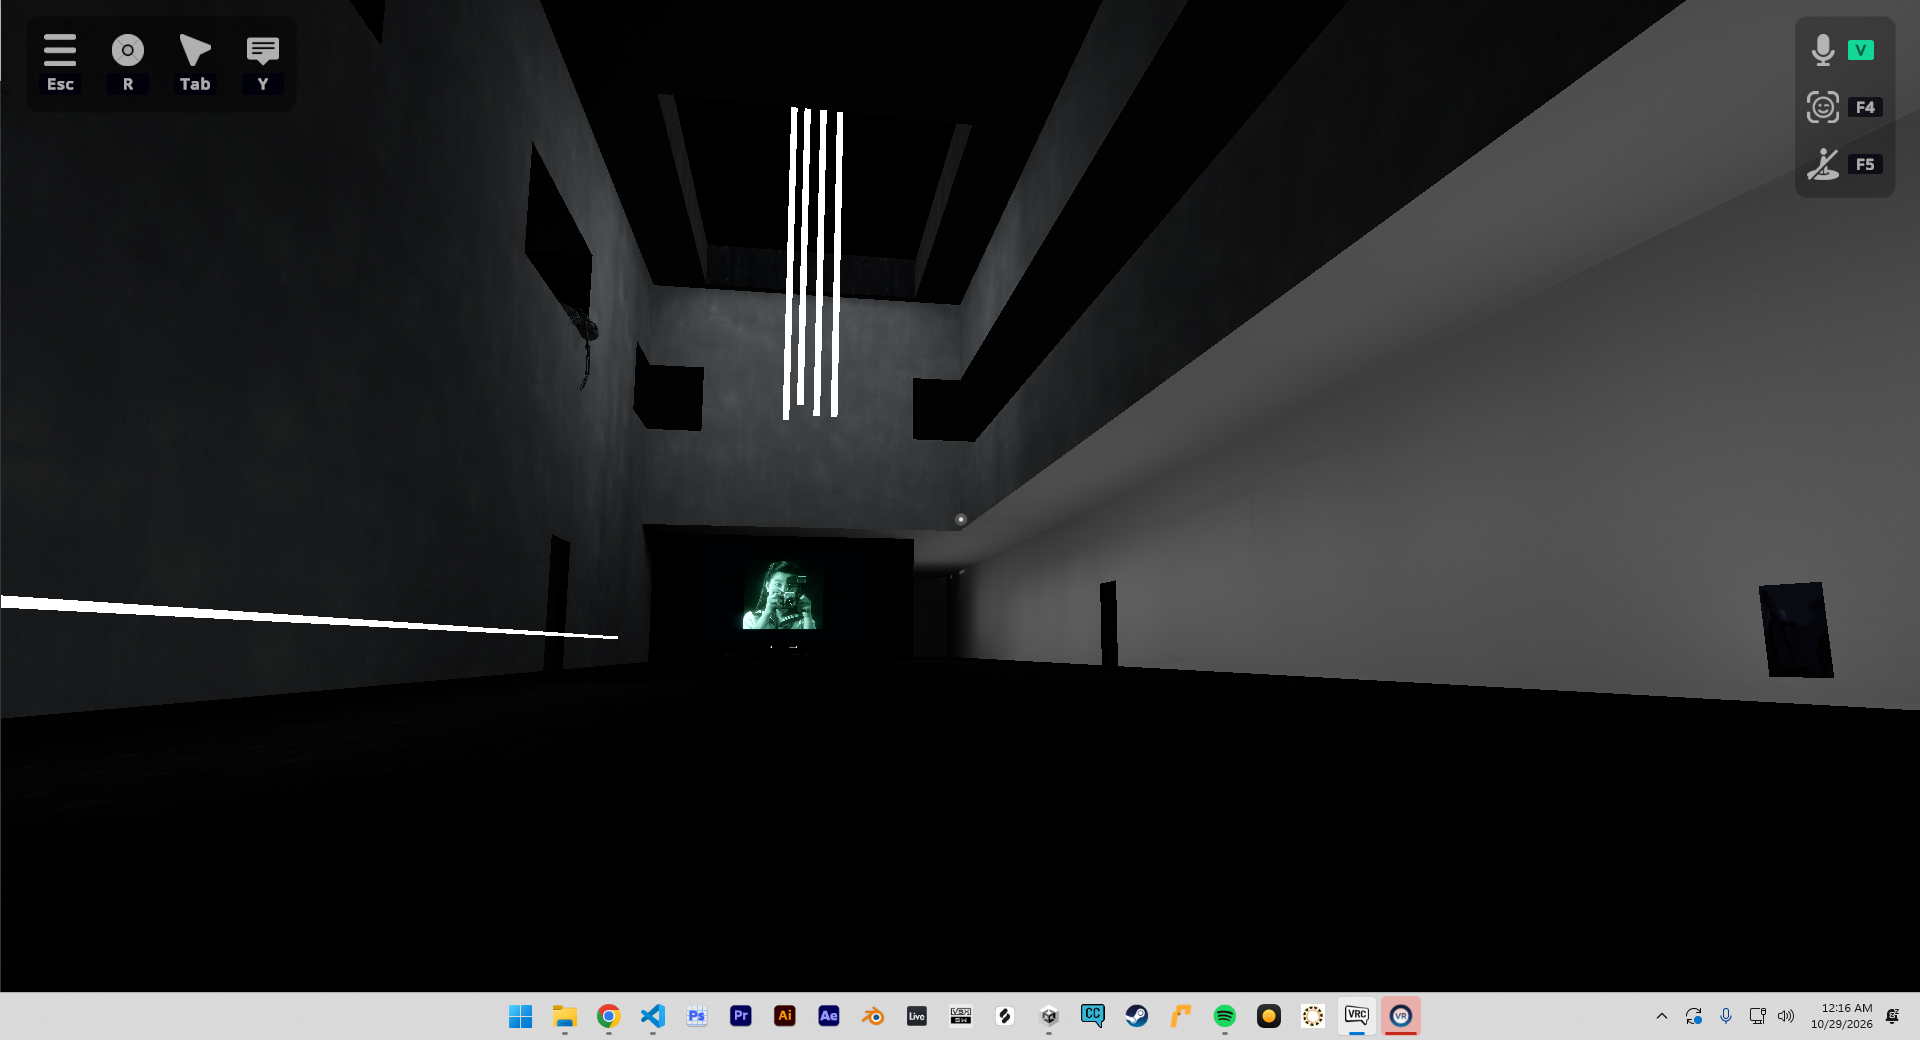
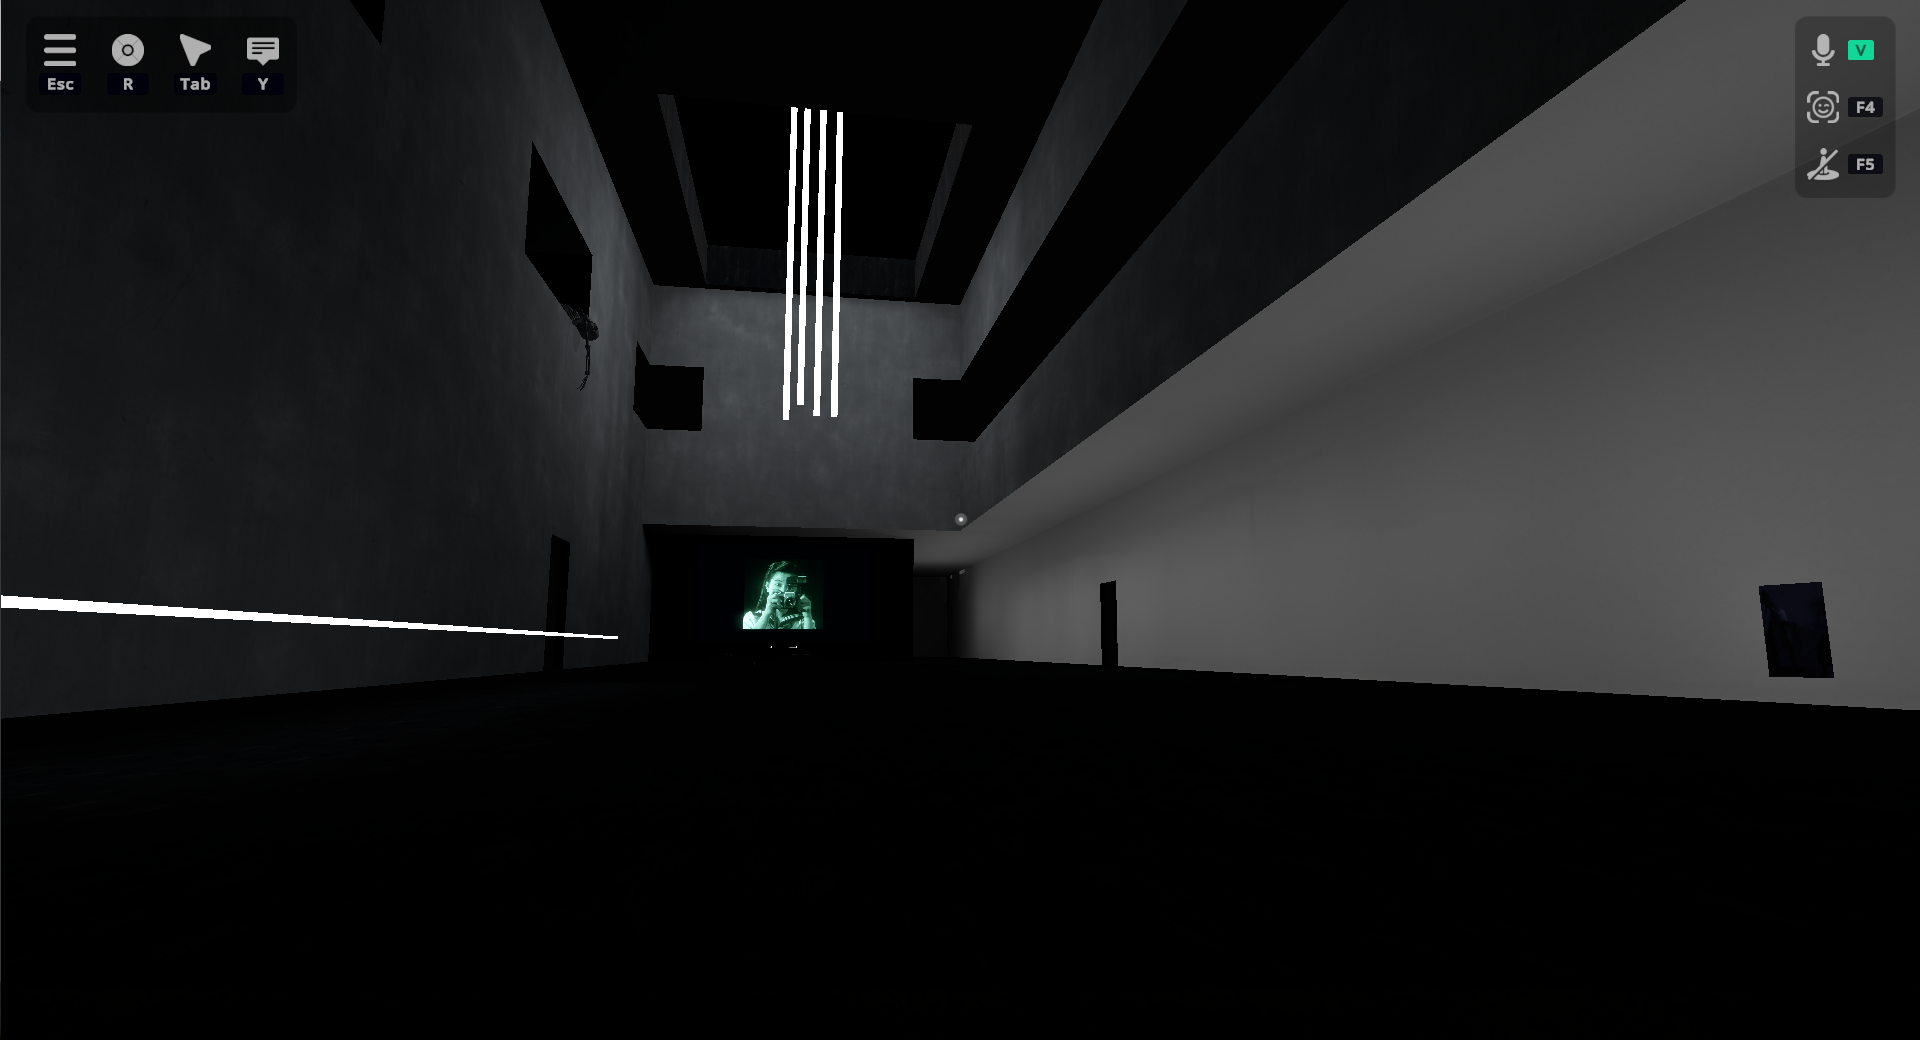
Reorder gallery, retitle screenshots, open page at top on reload

Changed region(s): [[0.0, 0.9538, 1.0, 1.0]]

diff --git a/game/index.html b/game/index.html
@@ -199,6 +199,8 @@ footer b{color:var(--bone);font-weight:400}
 <script>
 if (!window.matchMedia || !matchMedia('(prefers-reduced-motion: reduce)').matches) {
   document.documentElement.classList.add('js-intro');
+  if ('scrollRestoration' in history) history.scrollRestoration = 'manual';
+  window.scrollTo(0, 0);
 }
 </script>
 <style>
@@ -221,7 +223,7 @@ if (!window.matchMedia || !matchMedia('(prefers-reduced-motion: reduce)').matche
 <main id="top">
 
   <header class="hero pad">
-    <h1 id="statement">A VRChat World, designed, built and scripted solo in Unity 2022.3 with UdonSharp.</h1>
+    <h1 id="statement">A VRChat World, designed, built and scripted solo in Unity with UdonSharp.</h1>
     <a class="btn" data-hero href="https://vrchat.com/home/world/wrld_2db07f88-35c7-4e42-bcd3-53cb5c501638/info" target="_blank" rel="noopener">Enter Hollow on VRChat</a>
   </header>
 
@@ -236,27 +238,13 @@ if (!window.matchMedia || !matchMedia('(prefers-reduced-motion: reduce)').matche
     <div class="c-heading pad" data-split-heading><h2>Screenshots</h2></div>
     <div class="selected-work_list pad">
       <div class="selected-work_inner">
-        <div class="shot selected-work_item" tabindex="0" role="button" data-cap="The keeper. A glowing skull and a floating keypad.">
-          <div class="selected-work_clickable">
-            <div class="clickable_wrap">
-              <button type="button" class="clickable_btn"><span class="clickable_text">Enlarge The keeper</span></button>
-            </div>
-          </div>
-          <div class="selected-work_card"><img src="2-keeper.png" alt="In VRChat, a skeleton seated in a dark room with a glowing red skull and a floating keypad"></div>
-          <div class="selected-work_details">
-            <div class="selected-work_title">The keeper</div>
-            <p class="selected-work_tag">A glowing skull and a floating keypad.</p>
-          </div>
-        </div>
-      </div>
-      <div class="selected-work_inner">
-        <div class="shot selected-work_item" tabindex="0" role="button" data-cap="The only lit door.">
+        <div class="shot selected-work_item" tabindex="0" role="button" data-cap="The only lit door. The way in, under moonlight.">
           <div class="selected-work_clickable">
             <div class="clickable_wrap">
               <button type="button" class="clickable_btn"><span class="clickable_text">Enlarge The only lit door</span></button>
             </div>
           </div>
-          <div class="selected-work_card"><img src="1-door.png" alt="In VRChat, a dark path leading to a small lit arched doorway"></div>
+          <div class="selected-work_card"><img src="1-door.png" alt=""></div>
           <div class="selected-work_details">
             <div class="selected-work_title">The only lit door</div>
             <p class="selected-work_tag">The way in, under moonlight.</p>
@@ -264,72 +252,16 @@ if (!window.matchMedia || !matchMedia('(prefers-reduced-motion: reduce)').matche
         </div>
       </div>
       <div class="selected-work_inner">
-        <div class="shot selected-work_item" tabindex="0" role="button" data-cap="Night shore at the cave mouth.">
-          <div class="selected-work_clickable">
-            <div class="clickable_wrap">
-              <button type="button" class="clickable_btn"><span class="clickable_text">Enlarge Night shore</span></button>
-            </div>
-          </div>
-          <div class="selected-work_card"><img src="3-shore.png" alt="In VRChat, moonlit water at a cave shore at night"></div>
-          <div class="selected-work_details">
-            <div class="selected-work_title">Night shore</div>
-            <p class="selected-work_tag">Moonlit water at the cave mouth.</p>
-          </div>
-        </div>
-      </div>
-      <div class="selected-work_inner">
-        <div class="shot selected-work_item" tabindex="0" role="button" data-cap="The keypad, mid entry, in the VRChat desktop client.">
+        <div class="shot selected-work_item" tabindex="0" role="button" data-cap="The keypad. Script that grants access or teleports you off the bridge">
           <div class="selected-work_clickable">
             <div class="clickable_wrap">
               <button type="button" class="clickable_btn"><span class="clickable_text">Enlarge The keypad</span></button>
             </div>
           </div>
-          <div class="selected-work_card"><img src="7-154324.png" alt="In VRChat, a floating keypad with asterisks and a red enter button, with the desktop interface visible"></div>
+          <div class="selected-work_card"><img src="7-154324.png" alt=""></div>
           <div class="selected-work_details">
             <div class="selected-work_title">The keypad</div>
-            <p class="selected-work_tag">Mid entry, in the desktop client.</p>
-          </div>
-        </div>
-      </div>
-      <div class="selected-work_inner">
-        <div class="shot selected-work_item" tabindex="0" role="button" data-cap="The hidden theater.">
-          <div class="selected-work_clickable">
-            <div class="clickable_wrap">
-              <button type="button" class="clickable_btn"><span class="clickable_text">Enlarge The hidden theater</span></button>
-            </div>
-          </div>
-          <div class="selected-work_card"><img src="4-theater.png" alt="In VRChat, a hidden theater with a screen playing a horror film"></div>
-          <div class="selected-work_details">
-            <div class="selected-work_title">The hidden theater</div>
-            <p class="selected-work_tag">A horror film past the puzzle.</p>
-          </div>
-        </div>
-      </div>
-      <div class="selected-work_inner">
-        <div class="shot selected-work_item" tabindex="0" role="button" data-cap="In world, at night.">
-          <div class="selected-work_clickable">
-            <div class="clickable_wrap">
-              <button type="button" class="clickable_btn"><span class="clickable_text">Enlarge In world, at night</span></button>
-            </div>
-          </div>
-          <div class="selected-work_card"><img src="9-172108.png" alt="In VRChat, a night scene from the world of Hollow"></div>
-          <div class="selected-work_details">
-            <div class="selected-work_title">In world, at night</div>
-            <p class="selected-work_tag">Deep in the world.</p>
-          </div>
-        </div>
-      </div>
-      <div class="selected-work_inner">
-        <div class="shot selected-work_item" tabindex="0" role="button" data-cap="The main hall. Concrete and light strips, with a green glow on the far wall.">
-          <div class="selected-work_clickable">
-            <div class="clickable_wrap">
-              <button type="button" class="clickable_btn"><span class="clickable_text">Enlarge The main hall</span></button>
-            </div>
-          </div>
-          <div class="selected-work_card"><img src="10-Main-Hall.png" alt="In VRChat, a large concrete hall lit by white light strips, with a green glowing image on the far wall"></div>
-          <div class="selected-work_details">
-            <div class="selected-work_title">The main hall</div>
-            <p class="selected-work_tag">Concrete and light strips, with a green glow on the far wall.</p>
+            <p class="selected-work_tag">Script that grants access or teleports you off the bridge</p>
           </div>
         </div>
       </div>
@@ -340,7 +272,7 @@ if (!window.matchMedia || !matchMedia('(prefers-reduced-motion: reduce)').matche
               <button type="button" class="clickable_btn"><span class="clickable_text">Enlarge Unity editor, keypad script</span></button>
             </div>
           </div>
-          <div class="selected-work_card"><img src="5-editor-keypad.png" alt="Unity editor, the UdonSharp Keypad script open beside the keypad scene"></div>
+          <div class="selected-work_card"><img src="4-theater.png" alt=""></div>
           <div class="selected-work_details">
             <div class="selected-work_title">Unity editor</div>
             <p class="selected-work_tag">The keypad script and scene wiring.</p>
@@ -354,7 +286,7 @@ if (!window.matchMedia || !matchMedia('(prefers-reduced-motion: reduce)').matche
               <button type="button" class="clickable_btn"><span class="clickable_text">Enlarge Unity editor, SkullGrab</span></button>
             </div>
           </div>
-          <div class="selected-work_card"><img src="6-editor-skull.png" alt="Unity editor, a red skull selected with the SkullGrab Udon program and VRC Pickup and Object Sync in the Inspector"></div>
+          <div class="selected-work_card"><img src="9-172108.png" alt=""></div>
           <div class="selected-work_details">
             <div class="selected-work_title">Unity editor</div>
             <p class="selected-work_tag">SkullGrab with Object Sync in the Inspector.</p>
@@ -362,16 +294,86 @@ if (!window.matchMedia || !matchMedia('(prefers-reduced-motion: reduce)').matche
         </div>
       </div>
       <div class="selected-work_inner">
-        <div class="shot selected-work_item" tabindex="0" role="button" data-cap="Unity editor. A view from the project.">
+        <div class="shot selected-work_item" tabindex="0" role="button" data-cap="The main hall. The main hall and hidden theater.">
           <div class="selected-work_clickable">
             <div class="clickable_wrap">
-              <button type="button" class="clickable_btn"><span class="clickable_text">Enlarge Unity editor, project view</span></button>
+              <button type="button" class="clickable_btn"><span class="clickable_text">Enlarge The main hall</span></button>
             </div>
           </div>
-          <div class="selected-work_card"><img src="8-160639.png" alt="Unity editor, a view from the Hollow project"></div>
+          <div class="selected-work_card"><img src="10-Main-Hall.png" alt=""></div>
           <div class="selected-work_details">
-            <div class="selected-work_title">Unity editor</div>
-            <p class="selected-work_tag">A view from the project.</p>
+            <div class="selected-work_title">The main hall</div>
+            <p class="selected-work_tag">The main hall and hidden theater.</p>
+          </div>
+        </div>
+      </div>
+      <div class="selected-work_inner">
+        <div class="shot selected-work_item" tabindex="0" role="button" data-cap="Exit sign. The main hall's rear exit sign.">
+          <div class="selected-work_clickable">
+            <div class="clickable_wrap">
+              <button type="button" class="clickable_btn"><span class="clickable_text">Enlarge Exit sign</span></button>
+            </div>
+          </div>
+          <div class="selected-work_card"><img src="5-editor-keypad.png" alt=""></div>
+          <div class="selected-work_details">
+            <div class="selected-work_title">Exit sign</div>
+            <p class="selected-work_tag">The main hall's rear exit sign.</p>
+          </div>
+        </div>
+      </div>
+      <div class="selected-work_inner">
+        <div class="shot selected-work_item" tabindex="0" role="button" data-cap="The theater. Theater screen and lounge seating.">
+          <div class="selected-work_clickable">
+            <div class="clickable_wrap">
+              <button type="button" class="clickable_btn"><span class="clickable_text">Enlarge The theater</span></button>
+            </div>
+          </div>
+          <div class="selected-work_card"><img src="6-editor-skull.png" alt=""></div>
+          <div class="selected-work_details">
+            <div class="selected-work_title">The theater</div>
+            <p class="selected-work_tag">Theater screen and lounge seating.</p>
+          </div>
+        </div>
+      </div>
+      <div class="selected-work_inner">
+        <div class="shot selected-work_item" tabindex="0" role="button" data-cap="Don't do it. Grabbing the skull teleports you to the Black Sea.">
+          <div class="selected-work_clickable">
+            <div class="clickable_wrap">
+              <button type="button" class="clickable_btn"><span class="clickable_text">Enlarge Don't do it</span></button>
+            </div>
+          </div>
+          <div class="selected-work_card"><img src="8-160639.png" alt=""></div>
+          <div class="selected-work_details">
+            <div class="selected-work_title">Don't do it</div>
+            <p class="selected-work_tag">Grabbing the skull teleports you to the Black Sea.</p>
+          </div>
+        </div>
+      </div>
+      <div class="selected-work_inner">
+        <div class="shot selected-work_item" tabindex="0" role="button" data-cap="The Black Sea. A neverending watery wasteland.">
+          <div class="selected-work_clickable">
+            <div class="clickable_wrap">
+              <button type="button" class="clickable_btn"><span class="clickable_text">Enlarge The Black Sea</span></button>
+            </div>
+          </div>
+          <div class="selected-work_card"><img src="2-keeper.png" alt=""></div>
+          <div class="selected-work_details">
+            <div class="selected-work_title">The Black Sea</div>
+            <p class="selected-work_tag">A neverending watery wasteland.</p>
+          </div>
+        </div>
+      </div>
+      <div class="selected-work_inner">
+        <div class="shot selected-work_item" tabindex="0" role="button" data-cap="The keeper. A glowing skull and a floating keypad.">
+          <div class="selected-work_clickable">
+            <div class="clickable_wrap">
+              <button type="button" class="clickable_btn"><span class="clickable_text">Enlarge The keeper</span></button>
+            </div>
+          </div>
+          <div class="selected-work_card"><img src="3-shore.png" alt=""></div>
+          <div class="selected-work_details">
+            <div class="selected-work_title">The keeper</div>
+            <p class="selected-work_tag">A glowing skull and a floating keypad.</p>
           </div>
         </div>
       </div>
@@ -383,11 +385,11 @@ if (!window.matchMedia || !matchMedia('(prefers-reduced-motion: reduce)').matche
     <dl class="specs pad">
       <div class="spec" data-spec><dt>Engine</dt><dd>Unity 2022.3.22f1</dd></div>
       <div class="spec" data-spec><dt>SDK</dt><dd>VRChat Creator SDK, Udon</dd></div>
-      <div class="spec" data-spec><dt>Scripting</dt><dd>UdonSharp, Keypad and SkullGrab</dd></div>
-      <div class="spec" data-spec><dt>Interactivity</dt><dd>VRC Pickup, VRC Object Sync, triggers</dd></div>
-      <div class="spec" data-spec><dt>Audio</dt><dd>Audio Sources for ambience and theater sound</dd></div>
+      <div class="spec" data-spec><dt>Scripting</dt><dd>UdonSharp, C#</dd></div>
+      <div class="spec" data-spec><dt>Interactivity</dt><dd>VRC Pickup, VRC Object Sync, Collision Triggers</dd></div>
+      <div class="spec" data-spec><dt>Audio</dt><dd>Sound Design in Ableton live</dd></div>
       <div class="spec" data-spec><dt>Role</dt><dd>Solo build, design, layout, lighting and scripting</dd></div>
-      <div class="spec" data-spec><dt>Platform</dt><dd>VRChat, PCVR and Desktop</dd></div>
+      <div class="spec" data-spec><dt>Platform</dt><dd>VRChat, PC and Android</dd></div>
     </dl>
   </section>
 
@@ -563,6 +565,7 @@ if (!window.matchMedia || !matchMedia('(prefers-reduced-motion: reduce)').matche
         .call(function(){
           document.documentElement.classList.remove('js-intro');
           gsap.set('#nav, .sec, .finale, footer', { autoAlpha:0 });
+          if (lenis) lenis.scrollTo(0, { immediate:true }); else window.scrollTo(0, 0);
           ScrollTrigger.refresh();
           if (introTl) introTl.play();
         });
